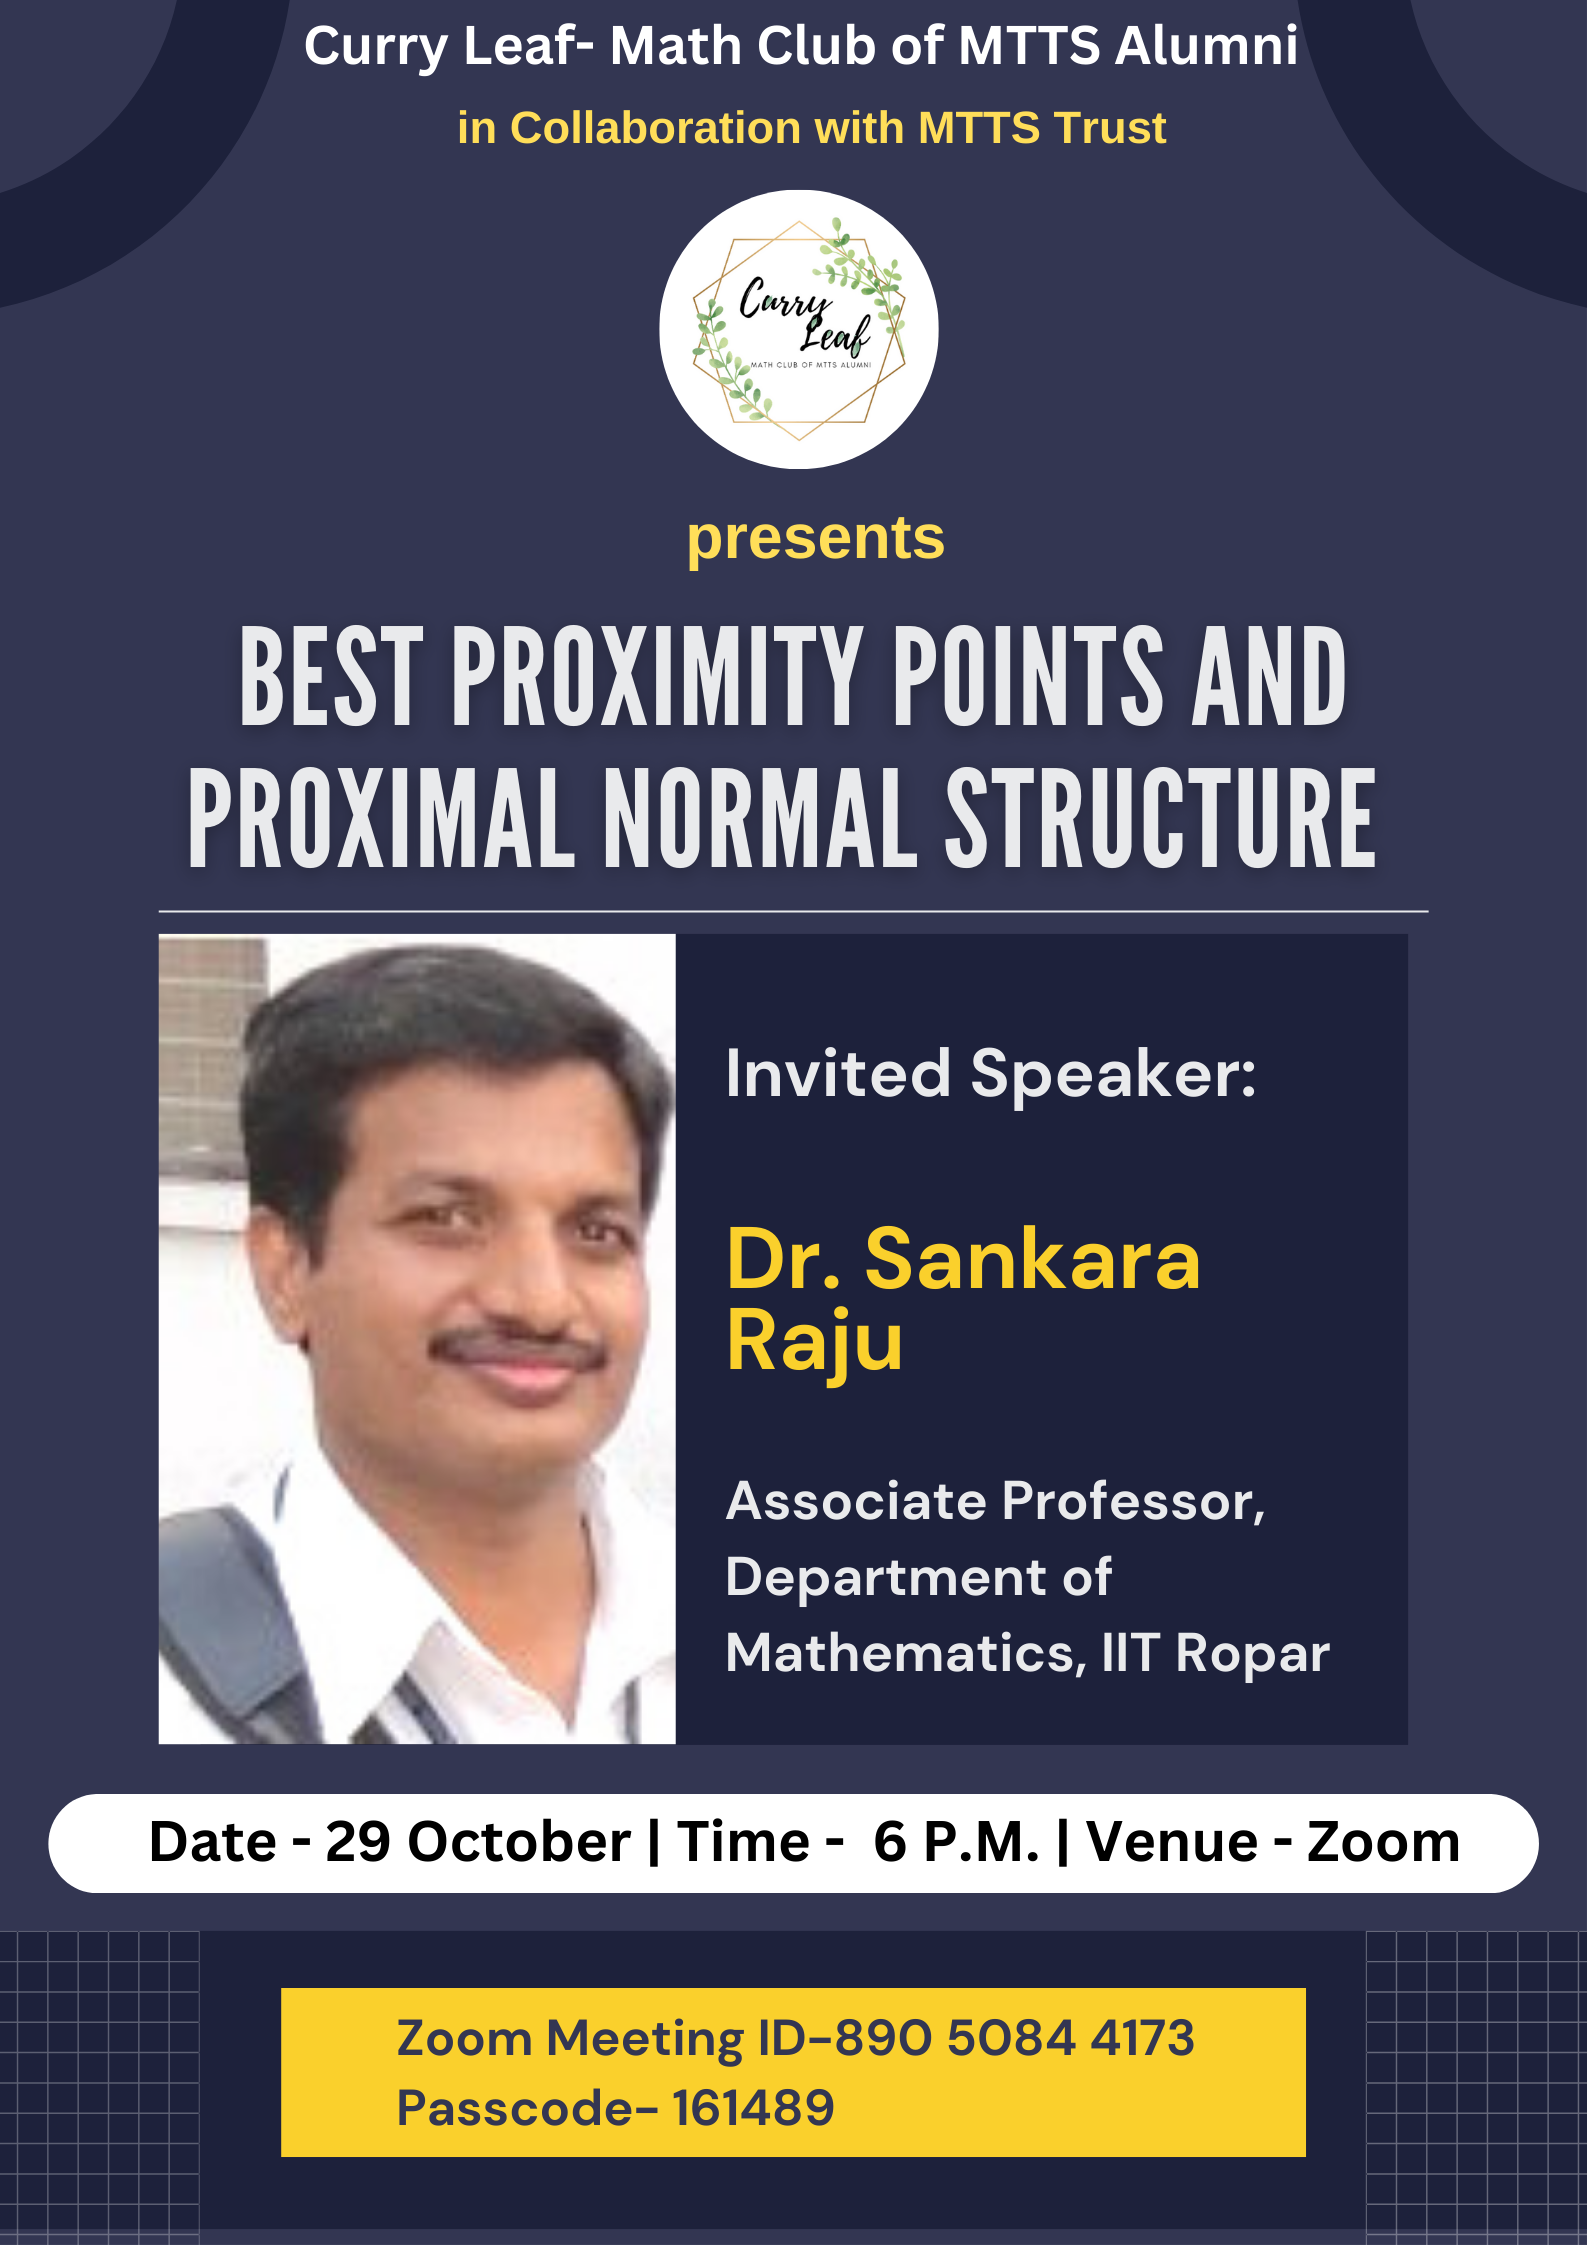
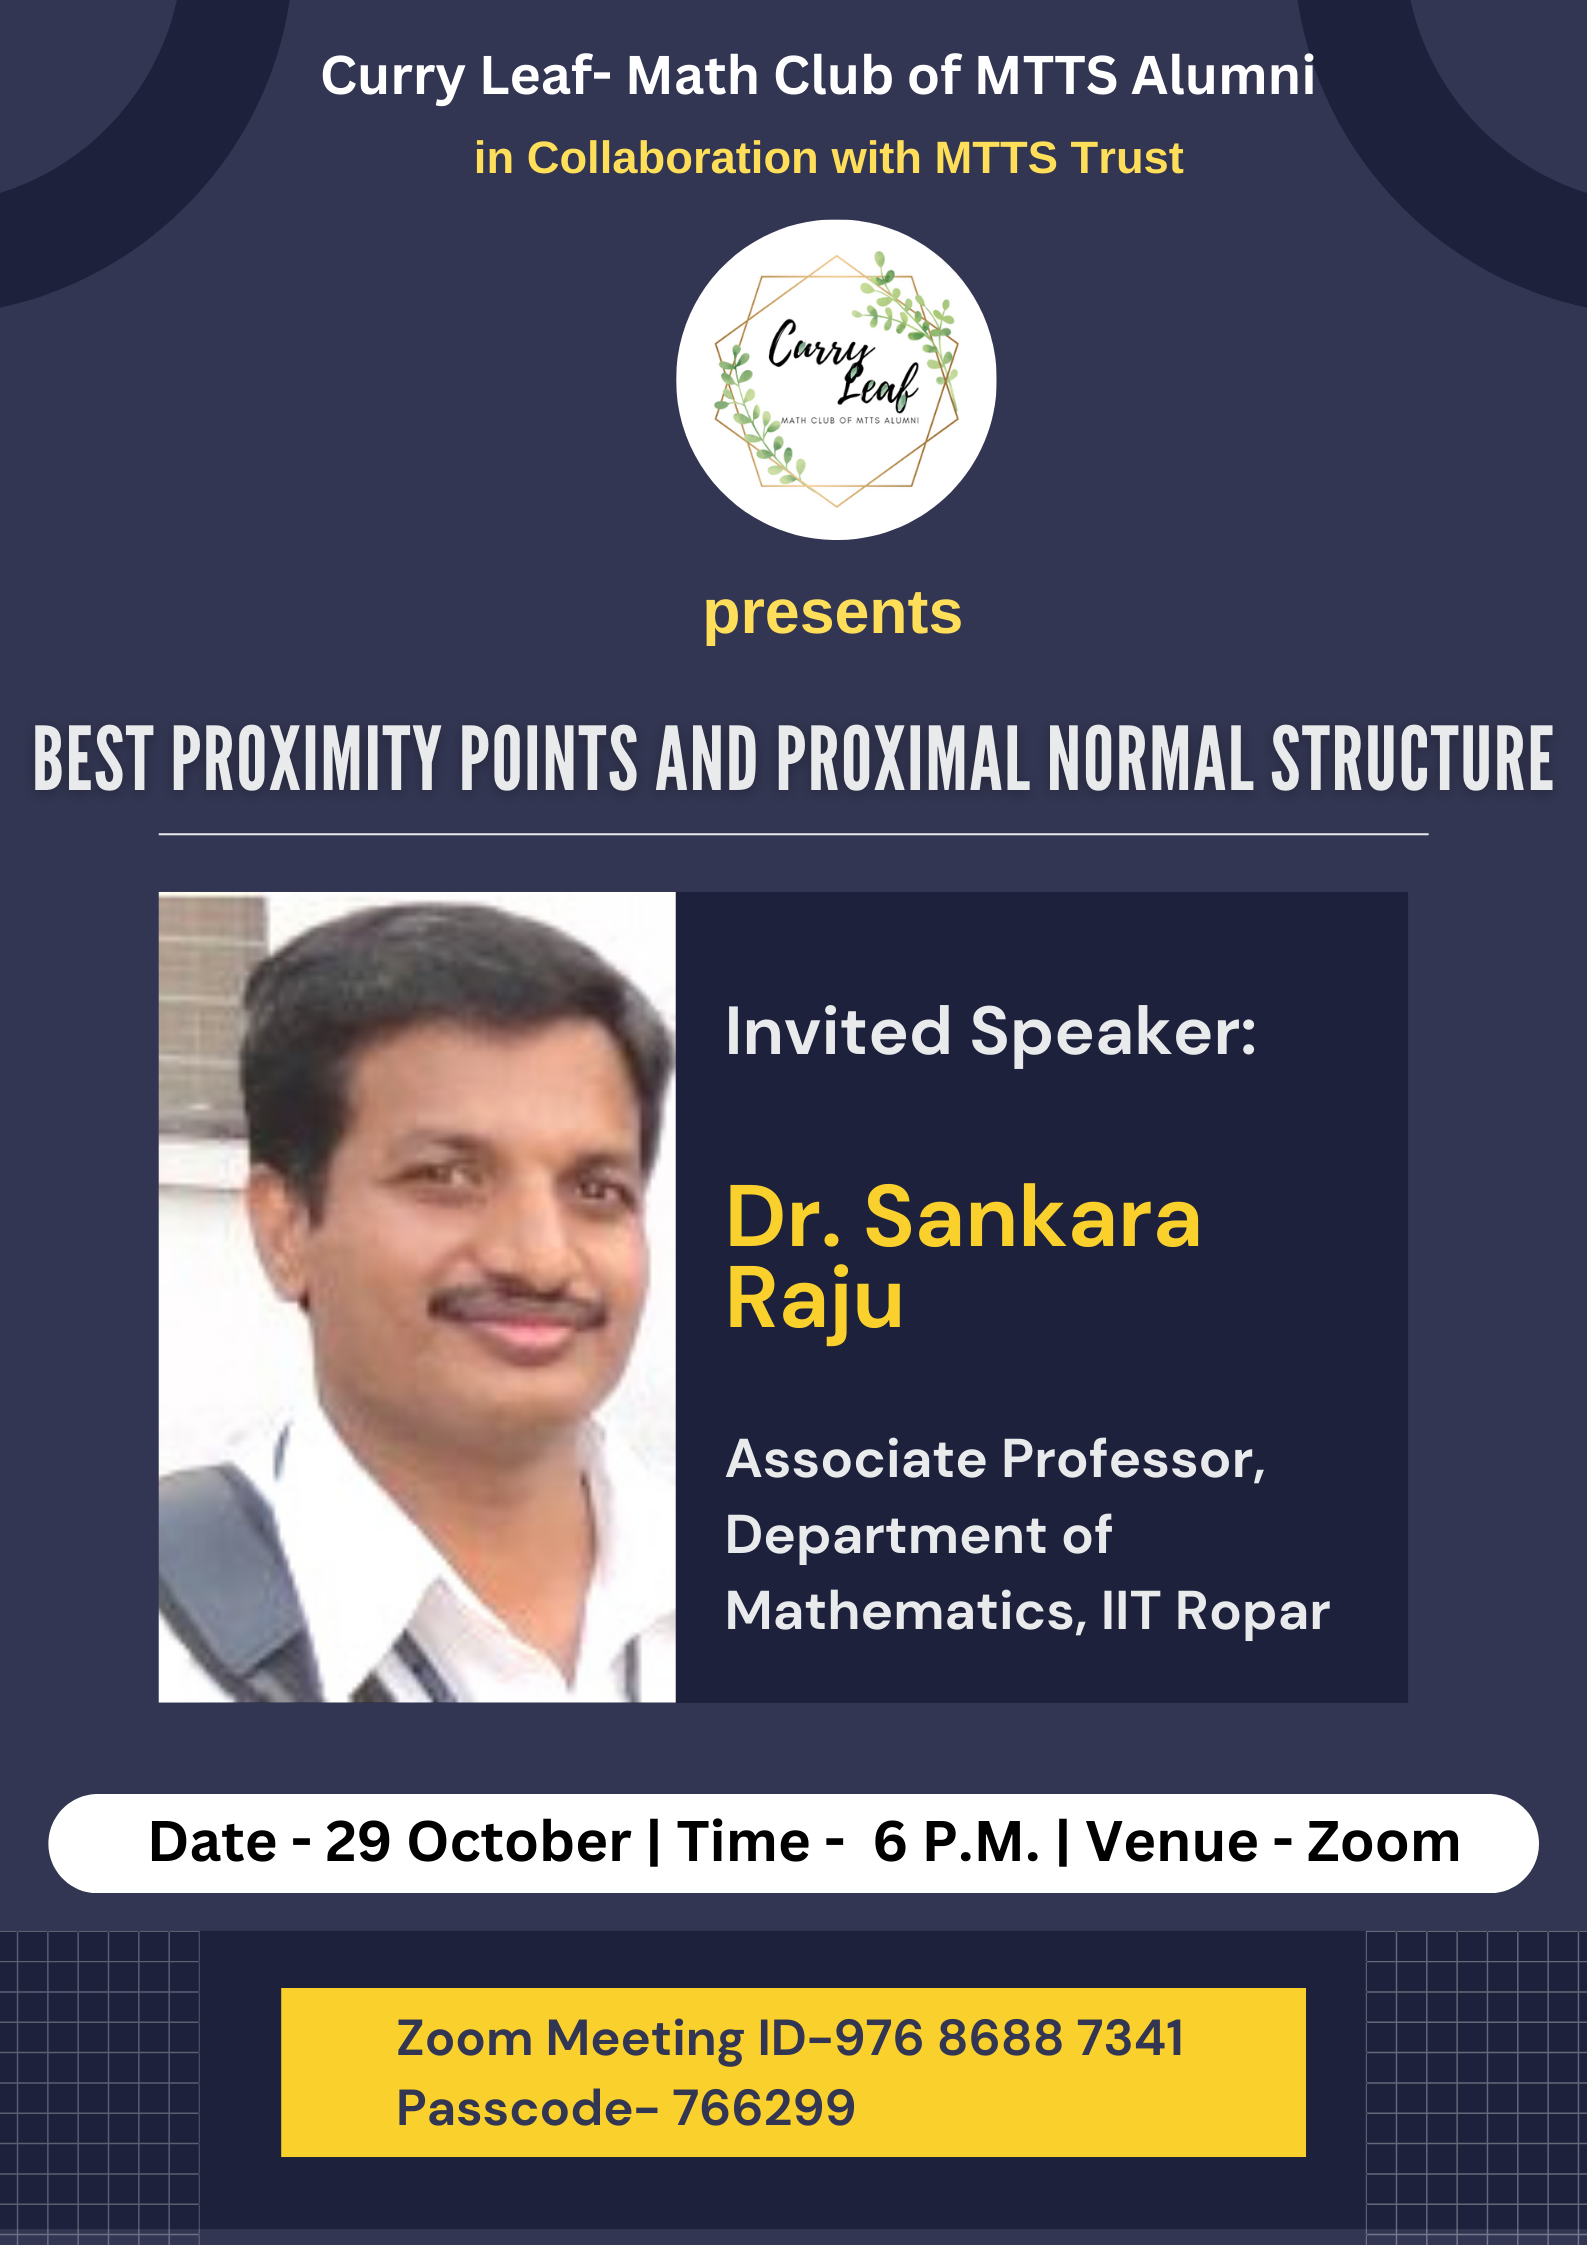
new files

Changed region(s): [[0.0, 0.0, 0.988, 0.7795], [0.4631, 0.4365, 0.8028, 0.4989], [0.4323, 0.8731, 0.741, 0.9666]]

diff --git a/index.html b/index.html
@@ -160,11 +160,11 @@
 
                 <ul class="header-btn">
                   <!-- <li><a class="main-btn main-btn-2" href="#" target="_blank">Register Now</a></li> -->
-                  <li><a class="main-btn main-btn-2" href="https://us02web.zoom.us/j/89050844173?pwd=WDdGeWxwaWZNOTN3MWU1VUs3R3hxZz09" target="_blank">Zoom</a></li>
+                  <li><a class="main-btn main-btn-2" href="https://zoom.us/j/97686887341?pwd=RW1jdjZqS3AyNks2UmRPU1RxVXM1dz09" target="_blank">Zoom</a></li>
                   <!-- <li><a class="main-btn" href="#">Learn More</a></li> -->
                 </ul>
-                <h4 class="sub-title">Zoom Meeting ID: 89050844173</h4>
-                <h4 class="sub-title">Passcode: 161489</h4>
+                <h4 class="sub-title">Zoom Meeting ID: 976 8688 7341</h4>
+                <h4 class="sub-title">Passcode: 766299</h4>
               </div>
               <!-- header content -->
             </div>
@@ -391,7 +391,7 @@
                   <div class="event-content pt-40">
                     <div class="single-event d-md-flex mt-30">
                       <div class="event-image">
-                        <a href="https://us02web.zoom.us/j/89050844173?pwd=WDdGeWxwaWZNOTN3MWU1VUs3R3hxZz09" target="_blank">
+                        <a href="https://zoom.us/j/97686887341?pwd=RW1jdjZqS3AyNks2UmRPU1RxVXM1dz09" target="_blank">
                           <img src="assets/images/talks/talk3.png" class="img-event-1" alt="Event" />
                         </a>
                       </div>
@@ -409,7 +409,7 @@
                           <li>Start: 4.00 PM (IST)</li>
 
                           <br />
-                          <li>Zoom : <a href="https://us02web.zoom.us/j/89050844173?pwd=WDdGeWxwaWZNOTN3MWU1VUs3R3hxZz09" target="_blank">Click here</a></li>
+                          <li>Zoom : <a href="https://zoom.us/j/97686887341?pwd=RW1jdjZqS3AyNks2UmRPU1RxVXM1dz09" target="_blank">Click here</a></li>
                           <li>YouTube live stream : <a href="#" target="_blank">TBU</a></li>
                         </ul>
                       </div>
@@ -418,7 +418,7 @@
                     <!--Prahlad Vaidyanathan Invited Talk - 3-->
                     <div class="single-event d-md-flex mt-30">
                       <div class="event-image">
-                        <a href="https://us02web.zoom.us/j/89050844173?pwd=WDdGeWxwaWZNOTN3MWU1VUs3R3hxZz09" target="_blank">
+                        <a href="https://zoom.us/j/97686887341?pwd=RW1jdjZqS3AyNks2UmRPU1RxVXM1dz09" target="_blank">
                           <img src="assets/images/talks/talk4.png" class="img-event-1" alt="Event" />
                         </a>
                       </div>
@@ -433,7 +433,7 @@
                           <li>Start: 6:00 PM</li>
 
                           <br />
-                          <li>Zoom : <a href="https://us02web.zoom.us/j/89050844173?pwd=WDdGeWxwaWZNOTN3MWU1VUs3R3hxZz09" target="_blank">Click here</a></li>
+                          <li>Zoom : <a href="https://zoom.us/j/97686887341?pwd=RW1jdjZqS3AyNks2UmRPU1RxVXM1dz09" target="_blank">Click here</a></li>
                           <li>YouTube live stream : <a href="#" target="_blank">TBU</a></li>
                         </ul>
                       </div>
@@ -447,7 +447,7 @@
                   <div class="event-content pt-40">
                     <div class="single-event d-md-flex mt-30">
                       <div class="event-image">
-                        <a href="https://us02web.zoom.us/j/89050844173?pwd=WDdGeWxwaWZNOTN3MWU1VUs3R3hxZz09" target="_blank">
+                        <a href="https://zoom.us/j/97686887341?pwd=RW1jdjZqS3AyNks2UmRPU1RxVXM1dz09" target="_blank">
                           <img src="assets/images/posters/birthday.jpg" class="img-event-1" alt="Event" />
                         </a>
                       </div>
@@ -457,7 +457,7 @@
                           <li>Start: 6.30 PM</li>
 
                           <br />
-                          <li>Zoom : <a href="https://us02web.zoom.us/j/89050844173?pwd=WDdGeWxwaWZNOTN3MWU1VUs3R3hxZz09" target="_blank">Click here</a></li>
+                          <li>Zoom : <a href="https://zoom.us/j/97686887341?pwd=RW1jdjZqS3AyNks2UmRPU1RxVXM1dz09" target="_blank">Click here</a></li>
                           <li>YouTube live stream : <a href="#" target="_blank">TBU</a></li>
                         </ul>
                       </div>
@@ -472,7 +472,7 @@
                   <div class="event-content pt-40">
                     <div class="single-event d-md-flex mt-30">
                       <div class="event-image">
-                        <a href="https://us02web.zoom.us/j/89050844173?pwd=WDdGeWxwaWZNOTN3MWU1VUs3R3hxZz09" target="_blank">
+                        <a href="https://zoom.us/j/97686887341?pwd=RW1jdjZqS3AyNks2UmRPU1RxVXM1dz09" target="_blank">
                           <img src="assets/images/posters/discussion.jpg" class="img-event-1" alt="Event" />
                         </a>
                       </div>
@@ -482,7 +482,7 @@
                           <li>Start: 4.00PM</li>
 
                           <br />
-                          <li>Zoom : <a href="https://us02web.zoom.us/j/89050844173?pwd=WDdGeWxwaWZNOTN3MWU1VUs3R3hxZz09" target="_blank">Click here</a></li>
+                          <li>Zoom : <a href="https://zoom.us/j/97686887341?pwd=RW1jdjZqS3AyNks2UmRPU1RxVXM1dz09" target="_blank">Click here</a></li>
                           <li>YouTube live stream : <a href="#" target="_blank">TBU</a></li>
                         </ul>
                       </div>
